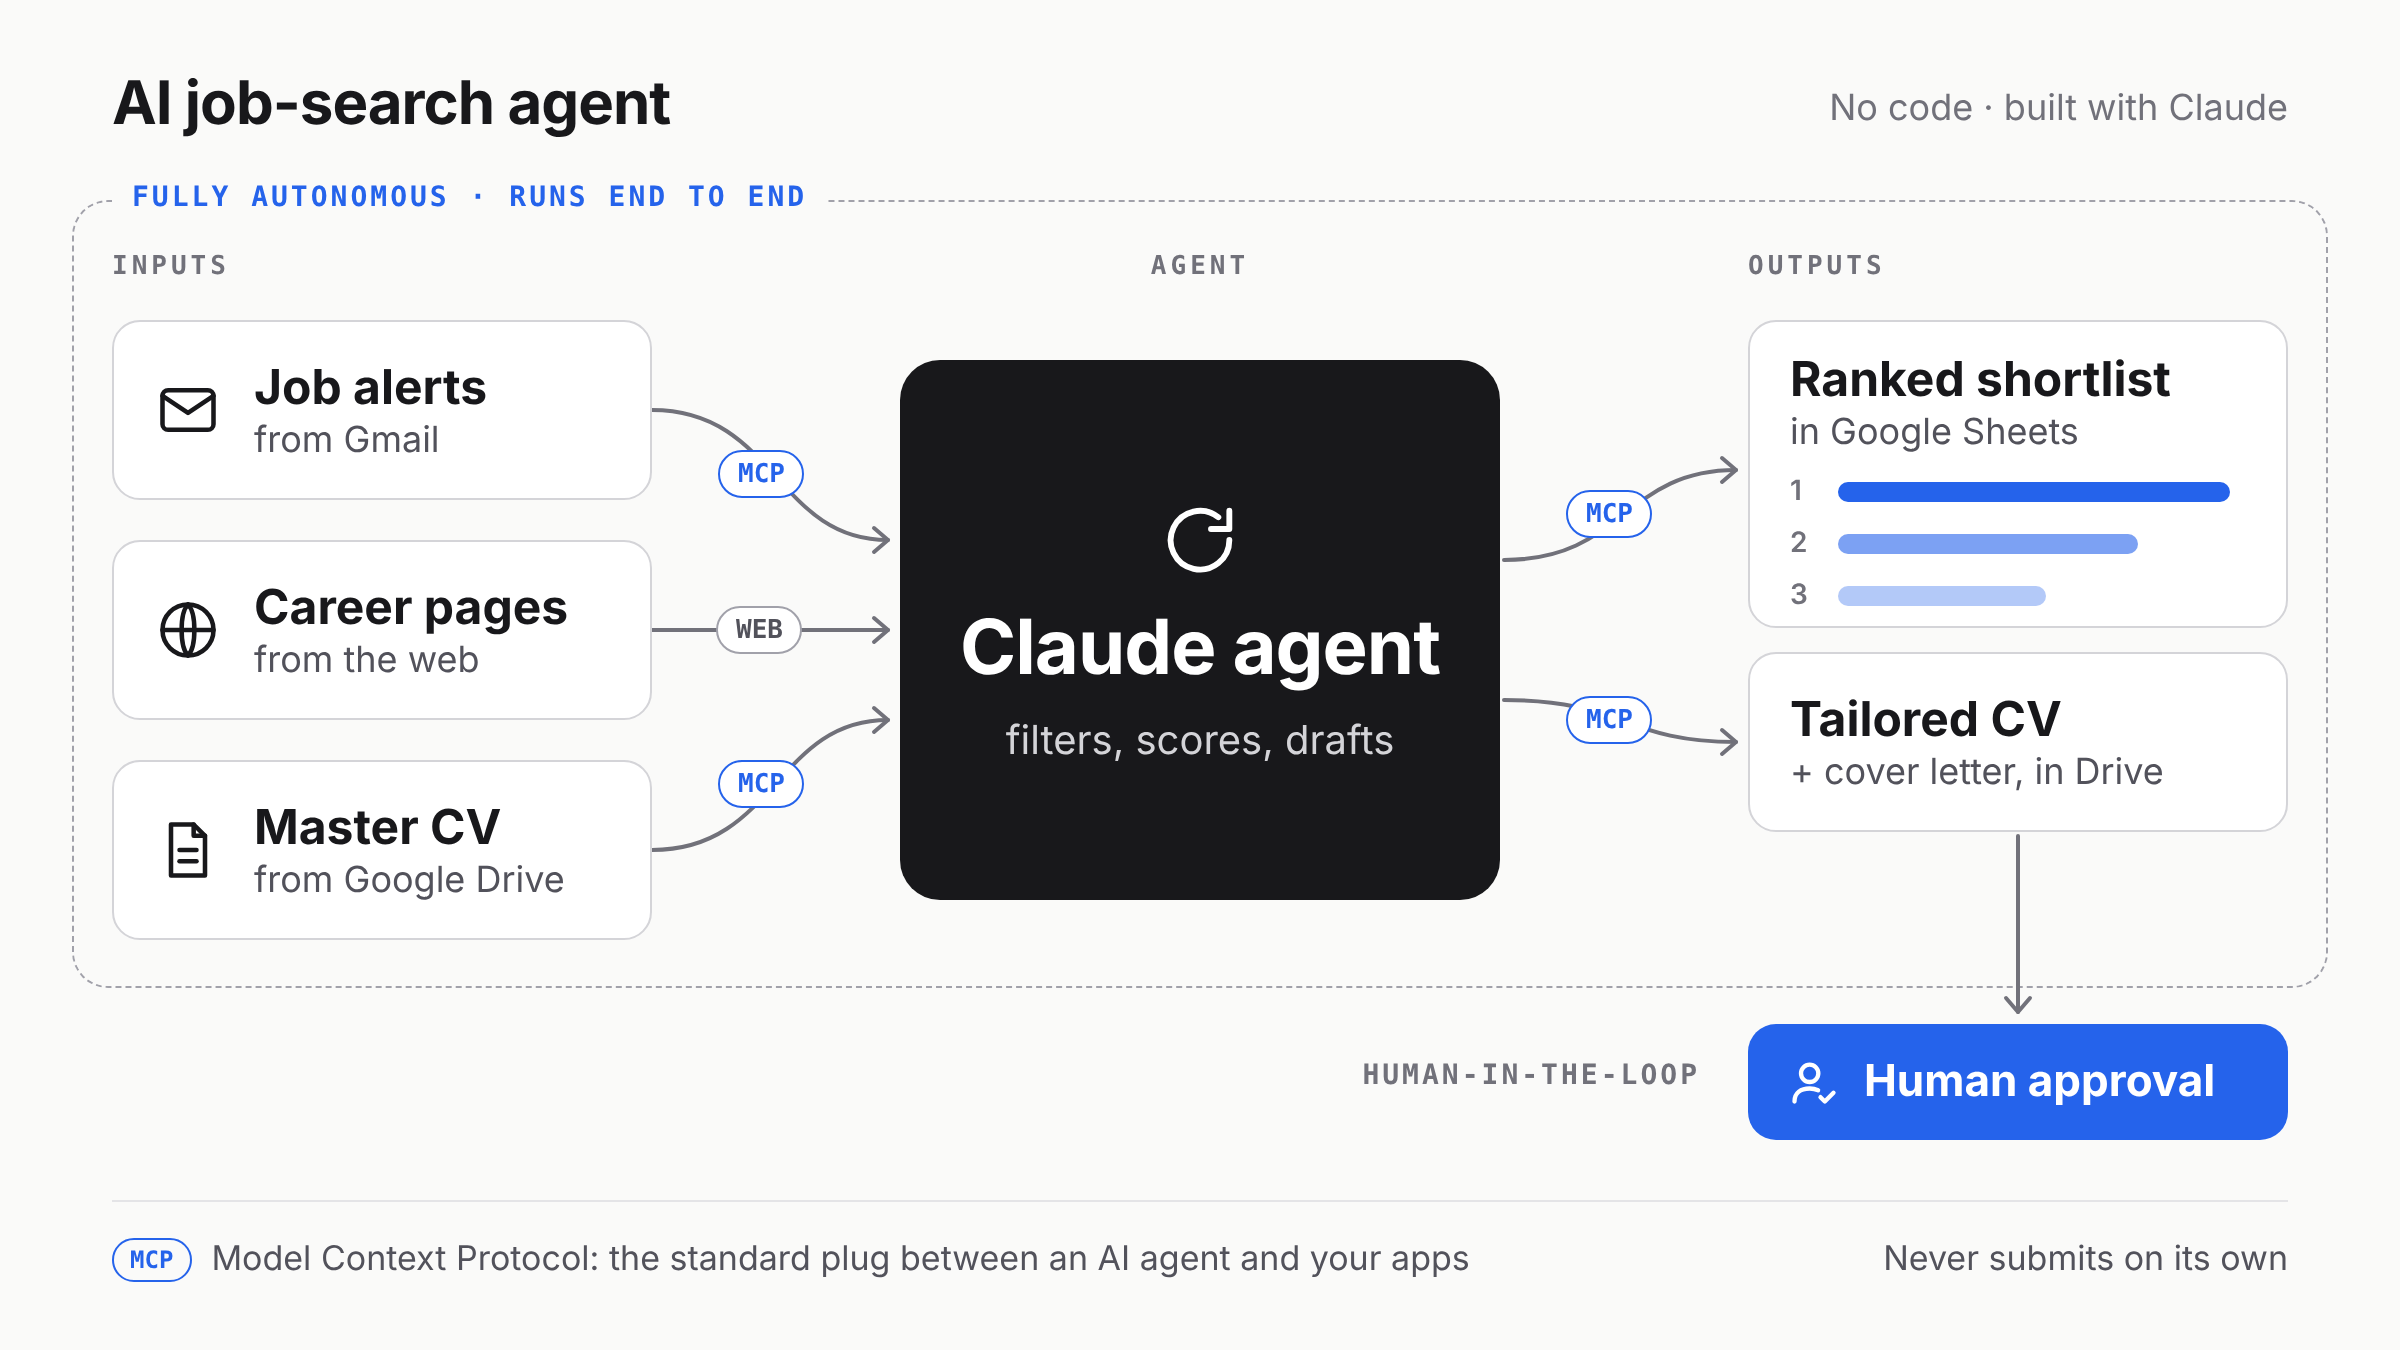
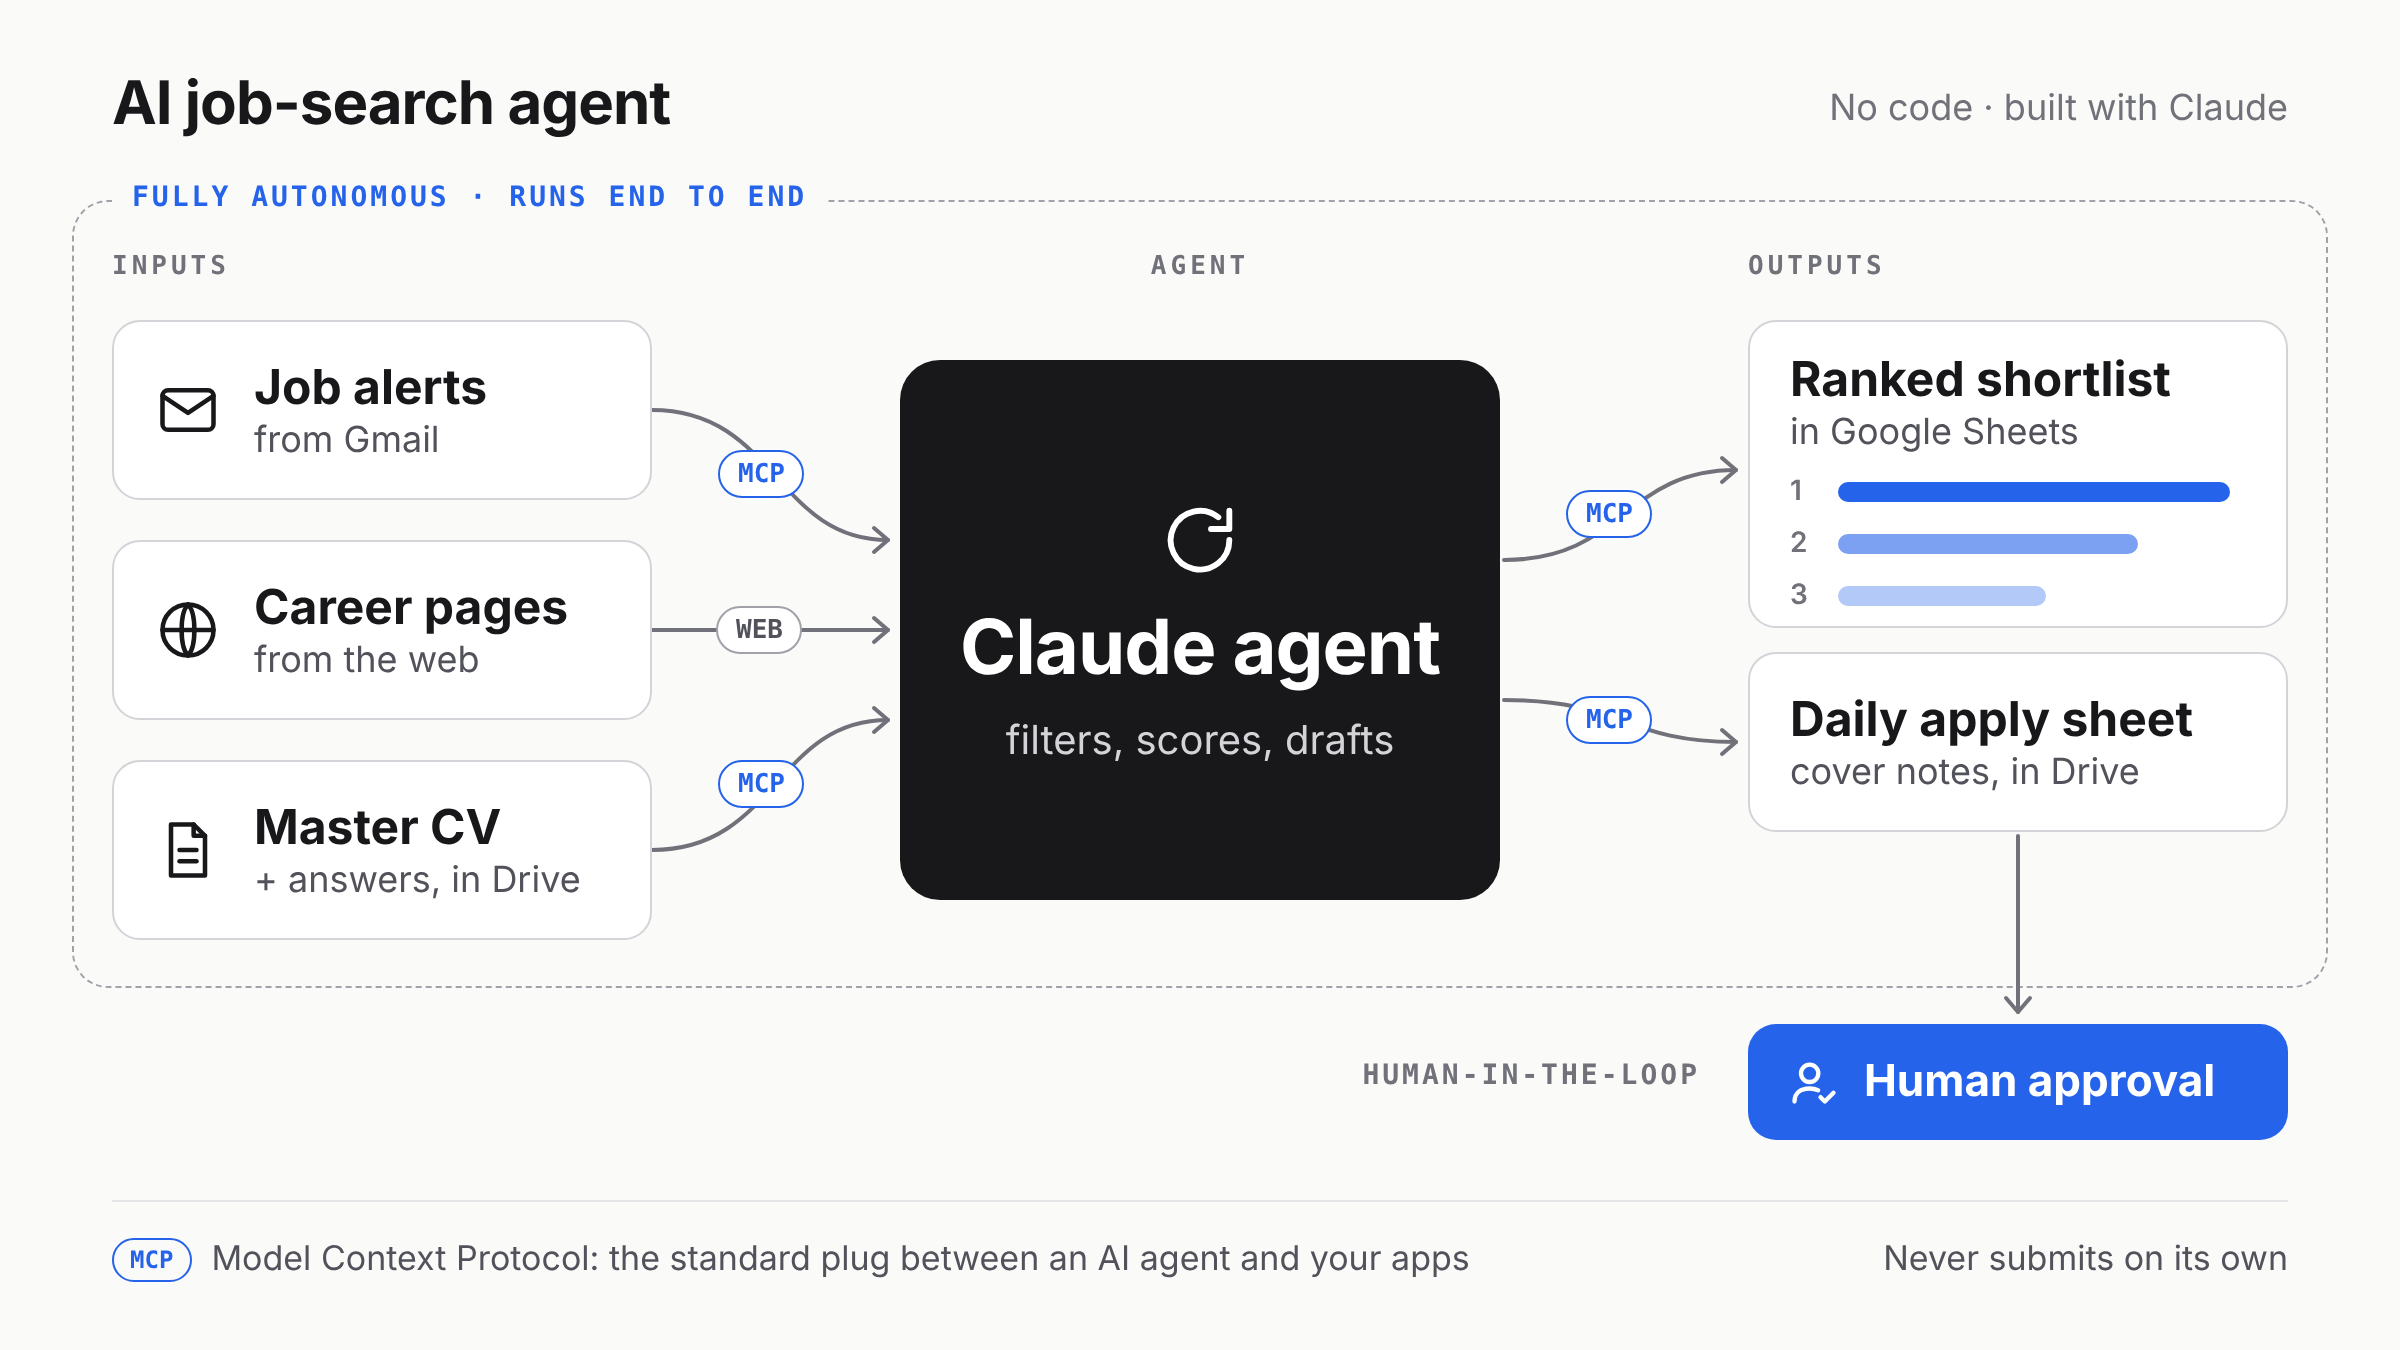
Update for weekday schedule and daily apply sheet
Claude-Session: https://claude.ai/code/session_01K4QiUqaLzjpcBG7PWqEb9c

Changed region(s): [[0.75, 0.4978, 0.9062, 0.5911], [0.125, 0.6222, 0.25, 0.6844]]

diff --git a/README.md b/README.md
@@ -1,6 +1,6 @@
 # AI Job-Search Agent
 
-An agentic AI workflow that runs a job search end to end. It pulls job alerts, searches company career pages, filters and scores each role against a master CV, and drafts a tailored CV and cover letter for the strongest matches. A human reviews everything before anything is submitted.
+An agentic AI workflow that runs a job search end to end. It pulls job alerts, searches company career pages, filters and scores each role against a master CV, and prepares a daily apply sheet for the strongest matches. A human reviews everything before anything is submitted.
 
 Built with Claude, without writing a single line of code.
 
@@ -8,13 +8,13 @@ Built with Claude, without writing a single line of code.
 
 ## How it works
 
-The agent runs as a scheduled Claude task. Each run goes end to end with no one watching:
+The agent runs as a scheduled Claude task every weekday morning. Each run goes end to end with no one watching:
 
 1. **Pull** new job alerts from Gmail
 2. **Search** company career pages for open roles
 3. **Filter** by role type, level, years of experience and location
 4. **Score** each remaining role from 0 to 100 against a master CV
-5. **Draft** a tailored CV and cover letter for the top 5 roles
+5. **Draft** a daily apply sheet for the top 5 roles: a cover note, screening answers and a referral message for each, plus a flag when a role is strong enough to deserve a tailored CV
 6. **Log** every scored role to a tracker, with its source, fit score and notes
 
 A second scheduled task drafts follow-up messages a week after an application goes out. It never sends them.
@@ -25,7 +25,7 @@ A second scheduled task drafts follow-up messages a week after an application go
 |---|---|---|
 | Claude scheduled task | Runs the agent on a fixed schedule | Built-in |
 | Gmail | Source of job alerts | MCP connector |
-| Google Drive | Holds the master CV, receives the drafted documents | MCP connector |
+| Google Drive | Holds the master CV and an answer bank, receives the daily apply sheet | MCP connector |
 | Google Sheets | The tracker | MCP connector |
 | Web search | Finds and opens live career pages | Built-in |
 
@@ -34,15 +34,15 @@ MCP (Model Context Protocol) is the standard way an AI agent plugs into apps.
 ## Design choices
 
 - **Human-in-the-loop.** The agent prepares everything and decides nothing. It never applies, sends an email, contacts anyone or creates an account.
-- **No invented content.** Tailored CVs only reorder and reword what is already in the master CV. The agent never adds experience, numbers, tools or links that it did not find.
-- **Fresh, live roles only.** It focuses on roles posted in the last 48 hours (72 on Mondays, to cover the weekend), opens every listing it can reach to confirm it is still live, and skips closed postings.
+- **No invented content.** Drafts use only facts from the master CV and a bank of standard answers. The agent never adds experience, numbers, clients or links that it did not find.
+- **Fresh, live roles only.** It focuses on roles posted in the last 24 hours (72 on Mondays, to cover the weekend), opens every listing it can reach to confirm it is still live, and skips closed postings.
 - **No duplicates.** Before logging, it checks the tracker and merges roles found in both Gmail and the web.
 - **It checks its own work.** After writing to the tracker, it reads the rows back to confirm every column is filled.
 - **Read-only on existing files.** It never edits or deletes anything it did not create.
 
 ## Results
 
-Each run ends with a ranked shortlist of every qualifying role and full application packs for the strongest matches. The agent is designed to build up to 5 packs per run, so at 3 runs a week it can prepare up to 15 tailored applications a week, each one waiting for human approval.
+Each run ends with a ranked shortlist of every qualifying role and a daily apply sheet for the strongest matches. The agent is designed to prepare up to 5 applications per run, so at 5 runs a week it can prepare up to 25 applications a week, each one waiting for human approval.
 
 ## What I ran into
 
